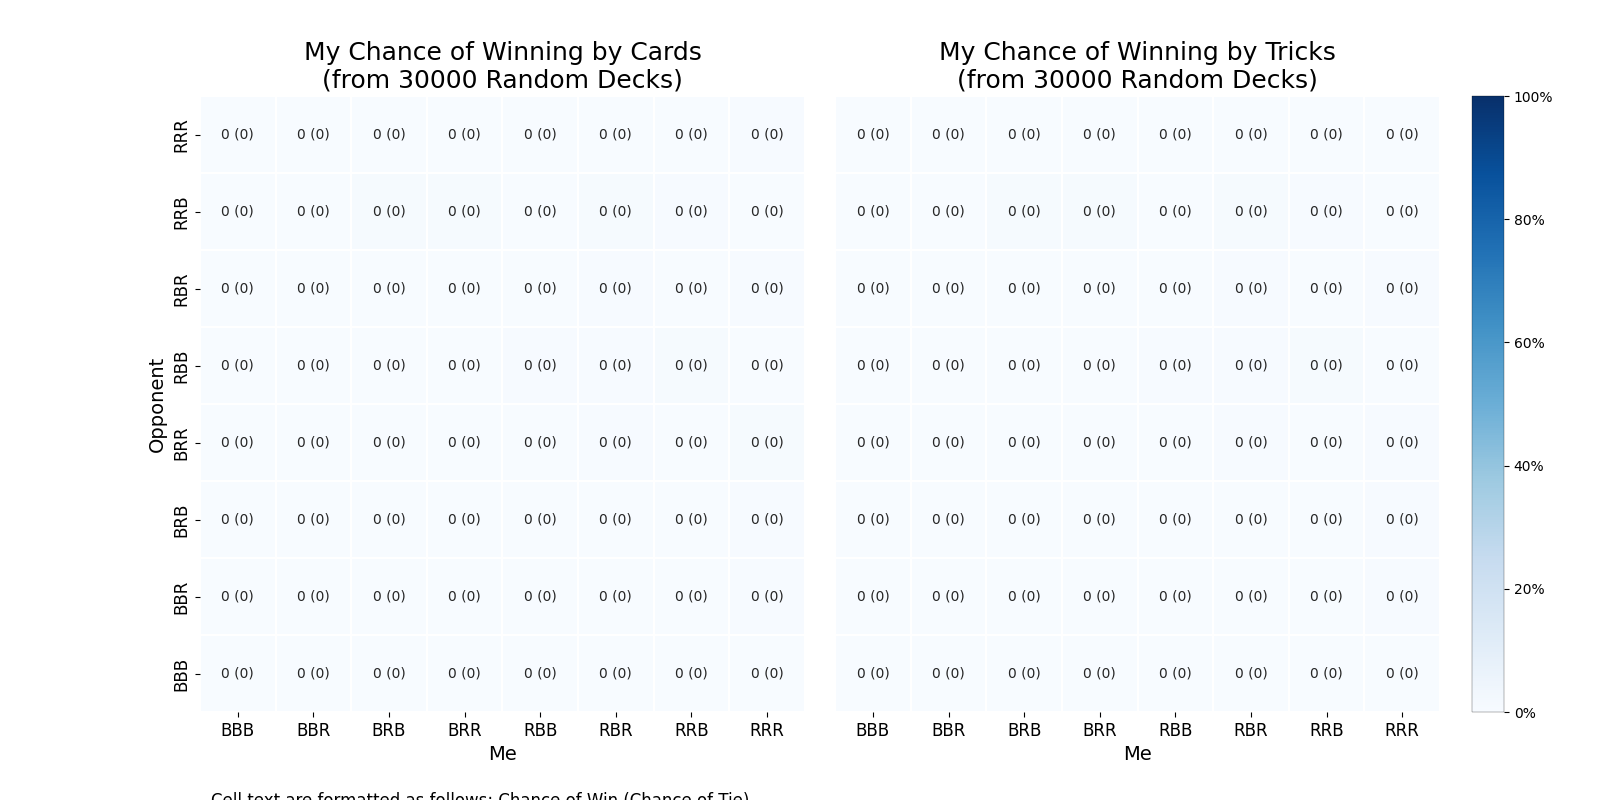
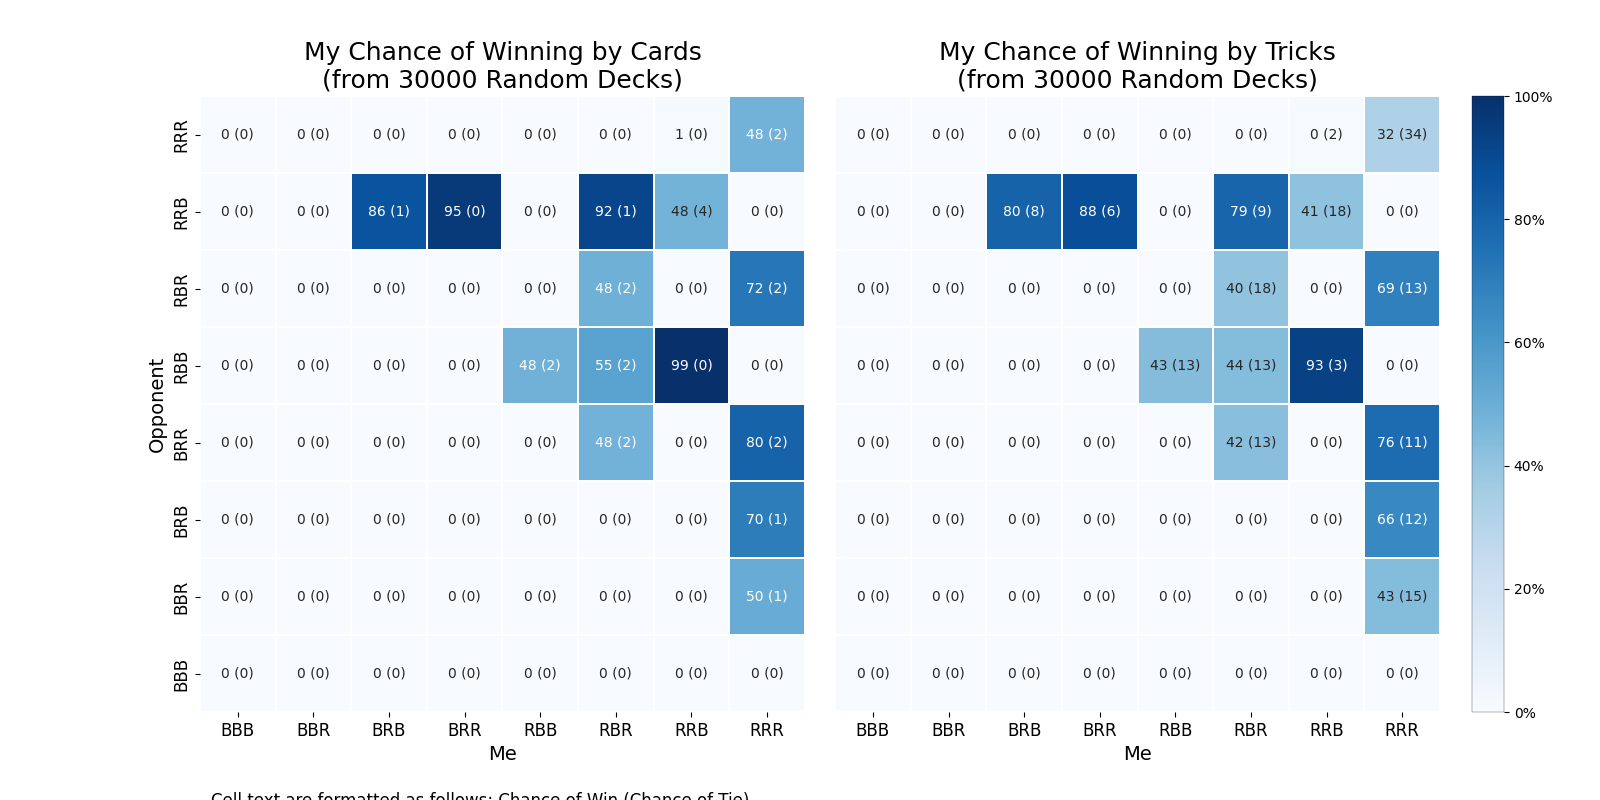
heatmaps display properly

diff --git a/src/visualization.py b/src/visualization.py
@@ -108,10 +108,10 @@ def get_heatmaps(format:str = "html") -> None:
     # Get data
     with open('results/results.json') as json_file:
         data = json.load(json_file)
-    cards = np.array(data['cards'])
-    cards_ties = np.array(data['cards_ties'])
-    tricks = np.array(data['tricks'])
-    tricks_ties = np.array(data['tricks_ties'])
+    cards = np.array(data['cards']) * 100
+    cards_ties = np.array(data['cards_ties']) * 100
+    tricks = np.array(data['tricks']) * 100
+    tricks_ties = np.array(data['tricks_ties']) * 100
     n = data['n']
         
     if format == 'html':
